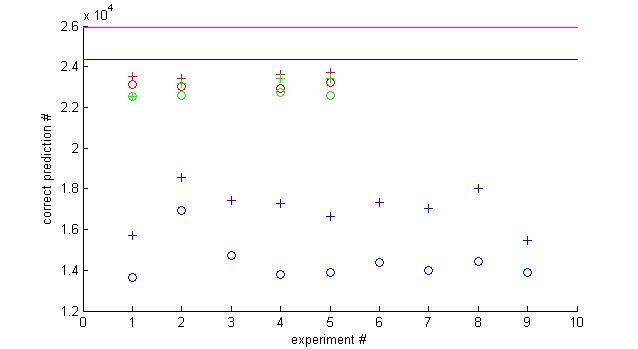
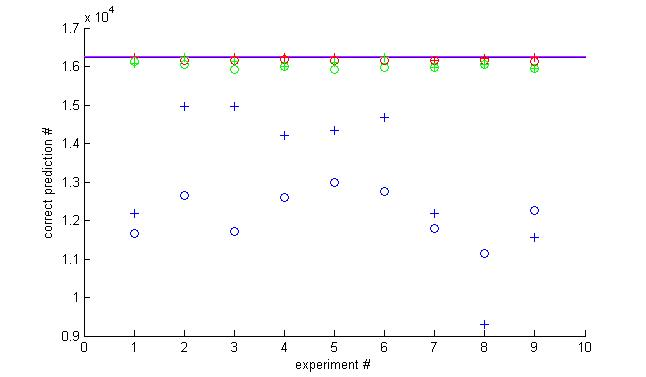
Fixed mushrooms figure.

diff --git a/report/report.tex b/report/report.tex
@@ -334,7 +334,8 @@ In this case semi-supervised learning performs not more than 3\% better than sup
 \subsection*{}
 While comparing three taken approaches there is not much difference visible. All of them behave comparably well on sample training size of 0.25 of initial set.\\
 
-Generally, with training set of this size we concluded that performing semi-supervised learning is not worth the time and computational power it takes in comparison with possible accuracy gain. This conclusion is based on outcomes for both data sets as loose in performance do not exceed 3\% while comparing supervised and semi-supervised learning with exactly the same initial training set supplied.
+Generally, with training set of this size we concluded that performing semi-supervised learning is not worth the time and computational power it takes in comparison with possible accuracy gain. This conclusion is based on outcomes for both data sets as loose in performance do not exceed 3\% while comparing supervised and semi-supervised learning with exactly the same initial training set supplied.\\
+In all cases the correct predictions ratio exceeds 88\% what seems quite a good result.
 
 \subsection{$\mathbf{10\%}$ sample~\cite{results10}\label{sec:results10}}
 The following figure shows the results of experiment conducted on initial sample of $10\%$ of the training set. The overall outcomes are similar to one presented in \textbf{Section~\ref{sec:results25}}. Nonetheless, we can see minor decrease in performance probably due to more than 2 times smaller training set.
@@ -348,19 +349,20 @@ The following figure shows the results of experiment conducted on initial sample
 \end{figure}
 
 \subsubsection{\texttt{mushrooms}--- \texttt{red}}
-The performance of semi supervised learning on this data set is generally better than outcomes of supervised learning on initial training set. Nonetheless, the difference in accuracy does not exceed 1\% what once again indicates that expensive semi-supervised classification may not be worth the possible gain in number of correct prediction.
+The performance of semi-supervised learning on this data set is generally better than outcomes of supervised learning on initial training set. Nonetheless, the difference in accuracy does not exceed 1\% what once again indicates that expensive semi-supervised classification may not be worth the possible gain in number of correct prediction.
 
 \subsubsection{\texttt{nursery}--- \texttt{green}}
-Here, outcomes follow similar pattern as in example above. Performance of semi-supervised algorithm is persistently better than what can be achieved using supervised learning on initial training sample. The difference in accuracy based on provided outcomes is not more than 3\% what leads to conclusion that also in case of 10\% sample it might be not worth to use proposed semi-supervised algorithm.
+Here, outcomes follow similar pattern to the one observed in the example above. Performance of semi-supervised algorithm is persistently better than what can be achieved using supervised learning on initial training sample. The difference in accuracy based on provided outcomes is not more than 3\% what leads to conclusion that also in case of 10\% sample it might not be worth to use proposed semi-supervised algorithm.
 
 \subsection*{}
 While comparing the results with regard to used approaches we can clearly see that \texttt{maximum exploitation} ($x \in \left \{ 1, 2, 3 \right \}$) and \texttt{no exploration} ($x \in \left \{ 4, 5, 6 \right \}$) perform better than \texttt{maximum exploration} ($x \in \left \{ 7, 8, 9 \right \}$). In the later one we can see that the results are approximately the same for supervised method trained on initial sample and for semi-supervised algorithm. This observation same as considered complexity of the method leads to conclusion that using the last approach is not worth needed resources.\\
 
-All in all, for 10\% sampling on training set we arrive at similar conclusion that was made in \textbf{Section~\ref{sec:results25}}. Semi-supervised learning gives little improvement over supervised learning algorithm trained on initial sample. Once again possible gain in accuracy, which does not exceed 3\% may not be worth complicated classification procedure.
+All in all, for 10\% sampling on training set we arrive at similar conclusion that was made in \textbf{Section~\ref{sec:results25}}. Semi-supervised learning gives little improvement over supervised learning algorithm trained on initial sample. Once again possible gain in accuracy, which does not exceed 3\% may not be worth complicated classification procedures.\\
+Also here the correct predictions ratio does not drop below 86\% what seems reasonably good outcome.
 
 
 \subsection{$\mathbf{0.25\%}$ sample~\cite{results025}\label{sec:results025}}
-For 0.25\% sampling of initial training set we arrive at \emph{Figure~\ref{img:025pc}} presented below. In this case the training set contains around 10 instances whereas full set has about 4000 exemplars. With such a small training set we can spot advantages of proposed algorithm over supervised learning on initial training set. The gap in accuracy between semi-supervised and supervised algorithm trained on initial sample increased to maximum of 15\%. The later result gives possibility of improving classification process by using proposed here algorithm in cases where only small amount of labeled data is available.
+For 0.25\% sampling of initial training set we arrive at \emph{Figure~\ref{img:025pc}} presented below. In this case the training set contains around 10 instances whereas full set has above 4000 exemplars. With such a small training set we can spot advantages of proposed algorithm over supervised learning on initial training set. The gap in accuracy between semi-supervised and supervised algorithm trained on initial sample increased to maximum of 15\%. The later result gives possibility of improving classification process by using proposed here algorithm in cases where only a very small amount of labeled data is available.
 
 \begin{figure}[htbp]
 \centering
@@ -374,15 +376,17 @@ For 0.25\% sampling of initial training set we arrive at \emph{Figure~\ref{img:0
 The experiments on this data set prove increase in accuracy while using semi-supervised learning. First two approaches ($x \in \left \{ 1, 2, 3 ,4, 5, 6 \right \}$) perform significantly better (15\% on average) than the last one. Moreover, number of correct prediction is only 7\% less in semi-supervised learning than in supervised one trained on whole set.
 
 \subsubsection{\texttt{nursery}--- \texttt{green}}
-Improvement in semi-supervised learning seems to be consistent through all experiments being on average 10\% in terms of number of correct prediction. Even though the results seems to be advantageous for semi-supervised learning the best achieved accuracy is about 20\% worse than the one achieved with supervised learning trained on whole set.
+Improvement in semi-supervised learning seems to be consistent through all experiments being on average 10\% in terms of number of correct prediction. Even though the results seem to be advantageous for semi-supervised learning the best achieved accuracy is about 20\% worse than the one achieved with supervised learning trained on whole set.
 
 \subsubsection{\texttt{scene}--- \texttt{blue}}
-Designed algorithm seems to give only little improvement on multi-labeled data sets. Here, the increase in accuracy does not exceed 5\%. Moreover, the results of semi-supervised learning are on average 5\% worse than . This result seems interesting and needs further investigation as either treating labels independently or having unbalanced class distribution have detrimental effect on designed algorithm.
+Designed algorithm seems to give only little improvement on multi-labeled data sets. Here, the increase in accuracy does not exceed 5\%. Moreover, the results of semi-supervised learning are on average 10\% worse than number of correct predictions achieved with classifier trained on whole data set. This result seems interesting and needs further investigation as either treating labels independently or having unbalanced class distribution have detrimental effect on designed algorithm in comparison with other used data sets.
 
 \subsection*{}
-blah for approaches//
+Once again we can spot the advantage of first two proposed approaches ($x \in \left [ 1,6   \right ] $) over the third one. Moreover, first one seems to perform slightly better than the other. We can conclude that boosting training set with very small data samples is detrimental to designed algorithm and the focus should be put on first two approaches. This effect can be easily seen within \texttt{mushrooms} data set and it also has slight effect on \texttt{scene} but is not present in \texttt{nursery}. This observation results in conclusion that the last approach is not consistent throughout data set and should be neglected in further discussions.\\
 
-blah for general
+In two previous experiments with initial training size of 25\% and 10\% volume we could state without any doubts that achieved improvement while using semi-supervised learning is not worth its effort. On contrary, here the improvement is significant and both approaches used are relatively simple.\\
+In \texttt{mushrooms} and \texttt{scene} data set the performance is about 7\% worse than the one achieved with full training set. In \texttt{nursery} this value oscillates around 20\%.\\
+To sum up, the improvement with semi-supervised learning reaches 15\% while in general the worse performance of proposed algorithm does not drop below 60\%.
 
 
 
@@ -397,7 +401,7 @@ Magenta solid line represents the total number of exemplars. Blue solid line is 
 		\caption{\small \texttt{mushrooms} data set.\label{img:mushrooms}}
 	\end{tiny}
 \end{figure}
-\texttt{mushrooms} data set with single  will be described first. For both 25\% and 10\% sample the results are very similar and the difference seems not important with regard to proposed semi-supervised algorithm. Classification on 0.25\% sample seems consistent through approaches and gives significant improvement with described algorithm. With regard to this set we can claim that desired improvement has been achieved.\\
+\texttt{mushrooms} (\emph{Figure~\ref{img:mushrooms}}) data set will be considered first. For both 25\% and 10\% sample the results are very similar and the difference does not seem important with regard to proposed semi-supervised algorithm. Classification on 0.25\% sample seems consistent and effective through first two approaches and gives significant improvement with described algorithm while with third approach it seems to fail. With regard to this set we can claim that desired goal has been achieved.\\
 
 
 \begin{figure}[htbp]
@@ -408,7 +412,7 @@ Magenta solid line represents the total number of exemplars. Blue solid line is 
 	\end{tiny}
 \end{figure}
 
-\texttt{nursery}
+\texttt{nursery} (\emph{Figure~\ref{img:nursery}}) gives consistent results for all approaches. For samples of size 25\% and 10\% the number of correct predictions is relatively high for both semi-supervised learning and supervised learning on initial sample what leads to conclusion that first one is not worth performing same as in \texttt{mushrooms}. On contrary, in 0.25\% sample we get very good improvement while using designed algorithm.\\
 
 \begin{figure}[htbp]
 	\centering
@@ -417,6 +421,8 @@ Magenta solid line represents the total number of exemplars. Blue solid line is 
 		\caption{\small \texttt{scene} data set.\label{img:scene}}
 	\end{tiny}
 \end{figure}
+
+Third one--- \texttt{scene} (\emph{Figure~\ref{img:scene}}) which represents multi-label data set is not much of a help in our experiment. Achieved improvement in semi-supervised learning seems relatively low in comparison with two other datasets. Nonetheless, the results of this trial confirm the general conclusions that \emph{first approach}--- \texttt{maximum exploitation} is the best one proposed giving highest overall improvement in semi-supervised learning over supervised learning trained on initial sample.\\
 
 
 \section{Conclusions}
